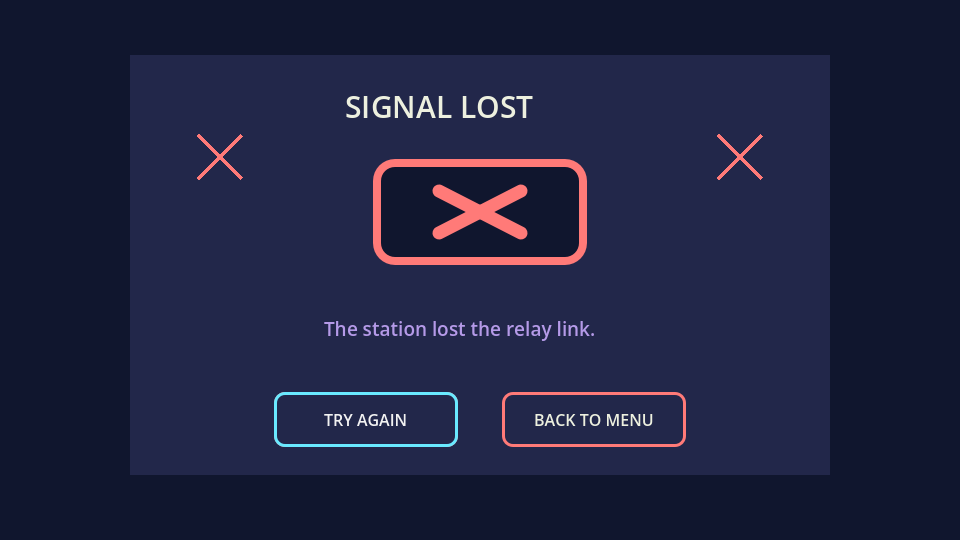
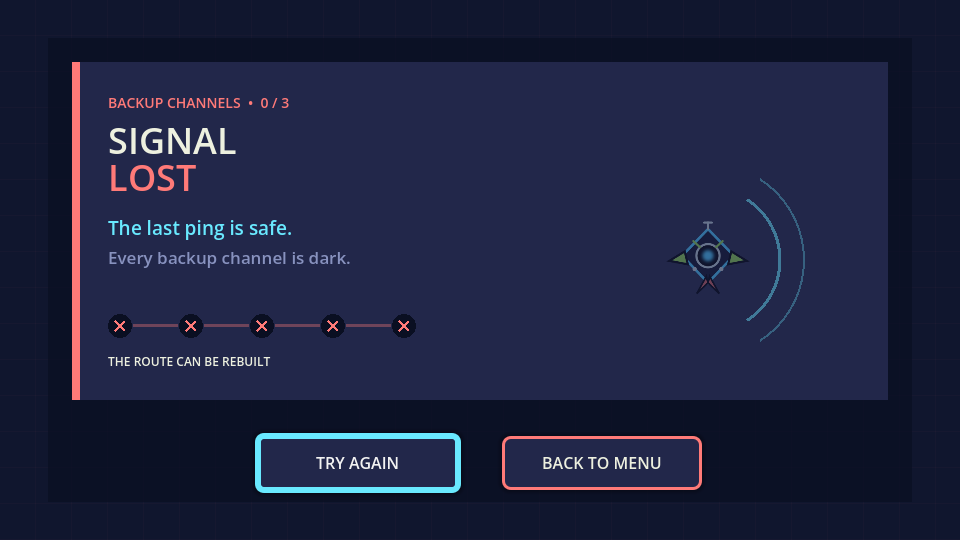
docs(readme): document five-stage practice build

diff --git a/README.md b/README.md
@@ -1,94 +1,116 @@
 # Rapid Relay: Signal Shift
 
-An AI-assisted Godot reaction-game practice project where a player keeps a relay station online through short keyboard and mouse challenges.
+An original Godot reflex-game collection about rebuilding a courier drone's route through an ion storm.
 
-![Rapid Relay main menu](screenshots/main-menu.png)
+![Wave Tuner gameplay with the five-stage relay HUD](screenshots/relay-round.png)
 
-## Current status
+**[Existing browser demo — five-game update pending](https://aaravkatiyar55-gif.github.io/rapid-relay-signal-shift/)** · [View the source](https://github.com/aaravkatiyar55-gif/rapid-relay-signal-shift)
 
-The local game, automated logic checks, local runtime screenshots, public source repository, and public browser demo exist. This project has no tracker-time evidence or Stardance submission claim. Visible-window manual testing is still incomplete.
+## What it is
 
-## How it plays
+You are the night-shift operator at Relay Station Five. An ion storm has scattered the navigation signal of KITE, a small courier drone trying to reach Luma Bay. Read one instruction, react quickly, and repair five links before all three backup channels go dark.
 
-Start the relay, read the active instruction, and preserve three signal bars through four rounds. A failed challenge removes one bar. Losing all bars opens **Signal Lost**; surviving all four rounds opens **Transmission Complete**.
+This is a standalone practice project with its own setting, character, interface, assets, win scene, and failure scene. It does not use Nintendo characters, art, music, names, or UI.
 
-### Controls
+## Quick start
 
-- **Tab** and **Enter**: move to and activate focused menu/end-scene buttons.
-- **Space**: use only after `GO` in Pulse Press.
-- **Mouse click** or **tap**: catch the moving orb in Orb Catch.
-- **Esc**: return to the main menu during a run or ending screen.
-
-## Mini-games
-
-### Pulse Press
-
-Wait for the central relay lamp to say `GO`, then press Space inside the active window. Pressing early or missing the window fails the round.
-
-### Orb Catch
-
-Click or tap the drifting signal orb before it crosses the exit line. A click outside the orb or a timeout fails the round.
+1. Install Godot 4.7 or a compatible Godot 4 release.
+2. Open `project.godot` and press **F5**.
+3. Use the active control shown above each challenge.
 
 ## Features
 
-- 960×540 Godot 4 Compatibility-renderer project.
-- Four-round alternating challenge flow: Press, Catch, Press, Catch.
-- Textual `SIGNAL BARS x / 3` HUD plus visible bars.
-- Separate original Win and Death scenes with replay and menu routes.
-- Simple local SVG assets for the relay icon, signal bars, success stamp, and failure stamp.
+- Five different input-driven minigames in a fixed story sequence.
+- Keyboard, mouse, and touch controls, with keyboard alternatives for pointer challenges.
+- Three visible backup channels with text, shape, and colour feedback.
+- Five-node route HUD that records successful and recovered stages.
+- Original KITE/Luma Bay story, animated menu, win scene, and failure scene.
+- 960×540 Godot 4 Web-compatible build with project-specific local SVG art.
 
-## Run locally
+## The five relay repairs
 
-1. Install Godot 4.7 or a compatible Godot 4 release.
-2. Import or open `project.godot` from this folder.
-3. Press **F6** to run the current scene, or **F5** to run the project.
-4. Use keyboard and mouse controls listed above.
+### 1. Pulse Press — Wake
 
-## Test locally
+Wait for the lamp to say `GO`, then press **Space** inside the 0.85-second response window. Pressing early or late uses a backup.
 
-The recorded results are in [docs/TESTING.md](docs/TESTING.md). The checks can be run from a terminal with a Godot console executable:
+### 2. Orb Catch — Catch
+
+Catch the moving orb before it escapes. Click or tap it, or move the keyboard reticle with the **Arrow keys** and press **Enter**.
+
+### 3. Wave Tuner — Tune
+
+Use **Left** and **Right** to move the needle. Keep it inside the stable band for 0.55 seconds before the 4.5-second timer expires.
+
+### 4. Relay Route — Route
+
+Enter the four visible **Arrow keys** in order before the route timer runs out. A wrong arrow breaks the stage.
+
+### 5. Core Dock — Dock
+
+Drag the diamond navigation core into the matching socket. A keyboard player can choose a socket with **Left/Right** and dock with **Enter**.
+
+## Controls
+
+- **Tab / Enter:** navigate and activate menu or ending buttons.
+- **Space:** Pulse Press.
+- **Arrow keys:** Orb reticle, Wave Tuner, Relay Route, and Core Dock selection.
+- **Mouse / touch:** Orb Catch and Core Dock.
+- **Esc:** return to the main menu during a run or ending screen.
+
+## How the game works
+
+`Game.tscn` owns one ordered five-stage plan. It instantiates the correct minigame scene, listens for one `finished(success)` result, updates the route HUD, and moves to the next stage. A small shared minigame base blocks duplicate results and gives each result a short readable pause.
+
+A failure consumes one backup but automatically repairs that stage, so the story can continue. Losing the third backup opens **Signal Lost**. Reaching the end with at least one backup opens **Transmission Complete**.
+
+## Run and test locally
+
+Open a PowerShell terminal in the project folder and replace the executable name if Godot is installed somewhere else:
 
 ```powershell
 Godot_v4.7.1-stable_win64_console.exe --headless --path . --script res://tests/press_logic_test.gd
 Godot_v4.7.1-stable_win64_console.exe --headless --path . --script res://tests/catch_logic_test.gd
+Godot_v4.7.1-stable_win64_console.exe --headless --path . --script res://tests/wave_logic_test.gd
+Godot_v4.7.1-stable_win64_console.exe --headless --path . --script res://tests/route_logic_test.gd
+Godot_v4.7.1-stable_win64_console.exe --headless --path . --script res://tests/dock_logic_test.gd
 Godot_v4.7.1-stable_win64_console.exe --headless --path . --script res://tests/flow_test.gd
 Godot_v4.7.1-stable_win64_console.exe --headless --path . --script res://tests/navigation_test.gd
 ```
 
-## Assets and technology
-
-- Godot 4.7
-- GDScript
-- Local SVG files in `assets/`
-- No external asset pack or external font
-
-The SVG assets and game source in this practice project were produced with AI assistance and are stored locally in this repository folder.
+The 2026-08-24 run completed **80 assertions across seven suites with zero failures**. Detailed observed results and test boundaries are in [docs/TESTING.md](docs/TESTING.md).
 
 ## Screenshots
 
-All images below were captured from the local non-headless Godot runtime on 2026-08-18.
+All images below were captured from the actual local Godot 4.7.1 runtime on 2026-08-24.
 
-![Main menu](screenshots/main-menu.png)
-![Pulse Press HUD](screenshots/relay-round.png)
-![Transmission Complete](screenshots/transmission-complete.png)
-![Signal Lost](screenshots/signal-lost.png)
+![Rapid Relay main menu](screenshots/main-menu.png)
 
-## Public links
+![Core Dock gameplay](screenshots/core-dock.png)
 
-- Source: [GitHub repository](https://github.com/aaravkatiyar55-gif/rapid-relay-signal-shift)
-- Playable demo: [GitHub Pages](https://aaravkatiyar55-gif.github.io/rapid-relay-signal-shift/)
+![Transmission Complete ending](screenshots/transmission-complete.png)
 
-The GitHub Pages build was checked in a fresh browser on 2026-08-18: the main menu loaded, Start Relay entered the first round, and the inactivity route reached Signal Lost without browser-console errors.
+![Signal Lost ending](screenshots/signal-lost.png)
+
+## Assets and credits
+
+- Built with Godot 4.7 and GDScript.
+- Uses Godot's built-in fallback font.
+- Project-specific SVGs in `assets/`: relay icon, signal bars, result stamps, KITE drone, and Luma Bay.
+- No downloaded sprite pack, external font, music, or Nintendo asset is included.
+
+The source, visual assets, story copy, tests, and documentation in this practice build were produced with substantial OpenAI Codex assistance. They are stored in the repository so their origin is not hidden.
 
 ## Known limitations
 
-- Only two minigame types are included.
-- There is no sound effects, high-score system, or mobile-specific layout pass yet.
-- Visible-window manual testing is still required in addition to the recorded headless tests.
-- The public demo has a desktop browser check; a separate mobile browser pass is still needed.
+- No sound effects or high-score system.
+- The gameplay HUD is drawn on the Godot canvas and does not currently expose a screen-reader text layer.
+- The fixed 960×540 game canvas scales in the browser instead of rearranging into a phone-specific layout.
+- Automated logic tests and runtime screenshots are not a substitute for a person completing every route manually.
+- Browser automation verified loading, clean console output, menu rendering, and keyboard start; background canvas timing made a complete automated browser playthrough unreliable.
+- This substantial AI-assisted build must not be represented as satisfying a none-to-minimal-AI mission without explicit organizer confirmation.
 
 ## AI disclosure
 
-OpenAI Codex was used for project setup, implementation support, debugging, testing support, and documentation. This repository and its project evidence describe the actual verified behavior; it is an AI-assisted practice prototype.
+OpenAI Codex was used for project setup, game design, GDScript implementation, visual assets, debugging, automated tests, screenshots, documentation, Web-export support, and repository/deployment work.
 
-It must not be represented as meeting Stardance’s “none to minimal AI usage” requirement without independent confirmation from the mission organizers.
+This is an AI-assisted practice project. No claim of human-only authorship, five human coding hours, or mission eligibility is made here.

diff --git a/docs/TESTING.md b/docs/TESTING.md
@@ -1,46 +1,80 @@
 # Testing notes
 
-Date: 2026-08-18
-Environment: Windows, Godot 4.7.1 stable console build, headless local runs.
+Date: 2026-08-24
+Workspace: `rapid-relay-rebuild`
+Environment: Windows, Godot 4.7.1 stable, Compatibility renderer.
+
+## What was checked
+
+Testing is separated into source inspection, automated Godot checks, local runtime rendering, local browser checks, and public verification. A check is not listed as manual owner testing unless a person actually played it.
 
 ## Source inspection
 
-- Checked the exact `rapid-relay-rebuild` workspace: six scenes, seven GDScript files, four local SVG assets, four 960×540 local screenshots, README, test scripts, and a 960×540 Compatibility-renderer Godot project were present.
-- No source reference to the prohibited older project names was found.
+- Confirmed one Godot 4 project with a 960×540 viewport and Web export preset.
+- Confirmed nine runtime scenes: menu, game controller, five minigames, win, and death.
+- Confirmed five distinct minigame scripts with keyboard, mouse, or touch input.
+- Confirmed six project-specific SVG files and no external asset pack or font.
+- Confirmed one ordered five-stage controller plan and a one-result-only shared minigame base.
+- Confirmed README and design notes retain substantial Codex assistance disclosure.
+- Confirmed there is no semantic screen-reader text layer; this remains a documented limitation rather than a tested accessibility claim.
 
-## Automated and local runtime checks
+## Automated Godot results
 
-| Test | Input or action | Observed result | Status |
+All seven suites below were run with the Godot 4.7.1 console executable. Final suite runs exited `0` with no script/runtime error and no failed assertion.
+
+| Suite | Main cases observed | Assertions | Result |
+| --- | --- | ---: | --- |
+| Pulse Press | randomized wait range, early input, correct input, late input, duplicate guard | 5 | Passed |
+| Orb Catch | pointer hit, reticle move, keyboard capture, wrong click, timeout | 5 | Passed |
+| Wave Tuner | both directions, long-frame crossing, stable hold, hold reset, late target, timeout, duplicate guard, reset-timer cancellation | 19 | Passed |
+| Relay Route | full sequence, wrong arrow, timeout, duplicate guard, stopped state, reset | 7 | Passed |
+| Core Dock | correct drag, empty drop retry, wrong socket, keyboard dock, timeout, duplicate guard, reset | 10 | Passed |
+| Five-stage flow | real child result signals, exact order/metadata, full win, three-loss death, final-stage recovery, duplicate controller result | 21 | Passed |
+| Navigation | real Enter/Esc dispatch, result-delay escape, menu focus/start, fresh replay, win/death buttons, back to menu | 13 | Passed |
+| **Total** |  | **80** | **Passed** |
+
+## Local runtime and visual checks
+
+| Check | Action | Observed result | Status |
 | --- | --- | --- | --- |
-| Project startup | Ran the project for five headless frames after changing SVG usage to imported textures | Godot started without console errors or SVG asset-load warnings | Passed |
-| Desktop startup | Ran the project for five non-headless frames | Godot exited 0 using the Compatibility renderer; it selected ANGLE after a GPU-driver warning | Passed |
-| Runtime screenshots | Ran the non-headless screenshot capture script | Saved four readable PNGs for menu, active game HUD, win, and death states | Passed |
-| SVG export-safety check | Loaded the menu, HUD, and both ending scenes through the automated runs | Imported SVG textures loaded without the earlier raw-image export warnings | Passed |
-| Web export preflight | Ran the Web preset through Godot’s headless exporter | Blocked: required Godot 4.7.1 Web export templates are not installed on this machine | Not completed |
-| Pulse Press, early | Sent Space while the test was waiting | The result signal returned failure | Passed |
-| Pulse Press, success | Advanced the test to GO, then sent Space | The result signal returned success | Passed |
-| Pulse Press, late | Advanced beyond the allowed GO window | The result signal returned failure | Passed |
-| Orb Catch, direct hit | Sent a click at the orb position | The result signal returned success | Passed |
-| Orb Catch, wrong click | Sent a click outside the orb | The result signal returned failure | Passed |
-| Orb Catch, timeout | Advanced the orb beyond its time limit | The result signal returned failure | Passed |
-| Four-round route | Simulated four successful minigame result signals in the controller | Alternated Press, Catch, Press, Catch and opened `WinScene` | Passed |
-| Loss route | Simulated three failed minigame result signals in the controller | Signal bars changed from 3 to 0 and opened `DeathScene` | Passed |
-| End-scene focus | Checked the first button after each ending scene loaded | `Play Again` and `Try Again` each had focus | Passed |
-| Menu start route | Loaded MainMenu and invoked its Start Relay action | Game scene opened with round 1 and three signal bars | Passed |
-| Replay and menu routes | Loaded ending scenes and invoked Try Again, Play Again, and Back to Menu actions | Each route opened the expected fresh scene | Passed |
+| Non-headless renderer | Ran screenshot capture with Godot 4.7.1 | Compatibility mode started through ANGLE after a known Intel OpenGL driver warning | Passed |
+| Runtime screenshots | Captured menu, all five minigames, win, and death | Nine 960×540 PNG files saved from the actual runtime | Passed |
+| Screenshot failure guard | Locked one output file during a negative capture run, then ran normally | Failed save exited `1`; final unlocked capture saved all nine and exited `0` | Passed |
+| Layout review | Inspected all nine generated images | Instructions, route nodes, backup text, buttons, gameplay objects, and ending copy were visible without overlap | Passed |
+| Colour-independent state | Inspected HUD and result visuals | Text plus rings, crosses, filled nodes, backup count, and status copy accompany colours | Passed |
+| Web icon branding | Exported with the project relay icon | Browser icon files show the relay antenna instead of default Godot artwork | Passed |
+| Export packaging | Exported the Web release preset | Export succeeded; runtime-only package was about 175 KB plus Godot Web runtime | Passed |
 
-## Visible manual testing
+The display server warned that the Intel HD Graphics 4000 driver has low-quality OpenGL 3.3 support and automatically selected ANGLE. The run completed successfully, so this is recorded as an environment warning rather than a game failure.
 
-Not completed. The local non-headless screenshot capture ran successfully, but Computer Use could not consistently capture the Godot application window. Tab/Enter, mouse playthrough, and visible 960×540 layout therefore remain unverified by a person playing the window.
+## Local Chrome Web check
 
-## Deployed browser testing
+The exported build was served from `127.0.0.1` and opened in the connected Chrome browser.
 
-Not completed. No public Web export or demo exists because the required Godot 4.7.1 Web export templates are not installed.
+| Check | Observed result | Status |
+| --- | --- | --- |
+| Page load | Title was `Rapid Relay: Signal Shift`; the Godot canvas rendered the current menu | Passed |
+| Browser console | No warning or error was returned after load and interaction checks | Passed |
+| Menu keyboard start | Enter activated the focused Start button and opened Pulse Press | Passed |
+| Web font check | A Unicode arrow first rendered as a missing-glyph square | Failed, then fixed |
+| Glyph regression | Replaced the arrow with ASCII `>`; re-exported and reloaded | Passed |
+| Failure path input | Late/incorrect inputs visibly removed backup channels and advanced the route | Passed |
+| Complete browser win route | Background canvas timing was throttled during automated waits, so reaction timing was not reliable | Not claimed |
 
-## Known limitations
+## Public verification
 
-- These are headless logic checks, not a replacement for a person playing the visible game window.
-- Manual keyboard Tab/Enter interaction, mouse playthrough, and 960×540 visual layout still need a visible-window check. Computer Use could not capture the Godot window on this machine during this session.
-- An attempted headless synthetic Tab/Enter test did not activate focused Godot buttons, so it is not counted as keyboard-interaction evidence.
-- The local Web export needs Godot 4.7.1 Web templates before a playable web build can be generated.
-- No public repository, public demo, tracker time, or Stardance submission evidence exists yet.
+The repository and GitHub Pages URLs already exist. The new five-minigame build is not counted as publicly verified until its commit is pushed, Pages is updated, and the fresh live URL is checked again.
+
+## Still requires a human play pass
+
+- Complete one full win route in a visible browser or Godot window.
+- Complete one deliberate three-loss route.
+- Confirm Core Dock drag feel with a real pointer and touch device if available.
+- Confirm the scaled 960×540 canvas is comfortable on a real phone.
+
+## Evidence boundaries
+
+- The automated suites verify game logic, state transitions, and reset behavior.
+- Runtime screenshots verify rendered layout at selected moments, not a complete human playthrough.
+- Local Chrome checks verify the exported canvas loads and accepts input, not that every timing challenge was manually completed.
+- No coding hours, tracker time, public deployment update, Stardance approval, or reward is inferred from these tests.

diff --git a/docs/DESIGN_NOTES.md b/docs/DESIGN_NOTES.md
@@ -1,0 +1,41 @@
+# Design notes
+
+## The idea
+
+Rapid Relay: Signal Shift takes place during the night shift at Relay Station Five. An ion storm has scattered the navigation signal of KITE, a small courier drone trying to reach Luma Bay. The player repairs five links in the route before all backup channels go dark.
+
+This is an original setting. It does not use Nintendo characters, art, music, names, or UI.
+
+## Game loop
+
+1. Read the stage name and one short instruction.
+2. Complete a quick keyboard, mouse, or touch challenge.
+3. A success stabilizes the link without using a backup.
+4. A failure uses one of three backup signal bars, then the route continues.
+5. Losing the third backup opens Signal Lost.
+6. Surviving all five stages opens Transmission Complete.
+
+The backup-channel idea explains why a failed stage can be recovered. A player does not need a perfect run, but three failures end the transmission.
+
+## Five relay repairs
+
+- **Wake — Pulse Press:** press Space only after the lamp changes to GO.
+- **Catch — Orb Catch:** click, tap, or keyboard-capture KITE's drifting carrier signal.
+- **Tune — Wave Tuner:** use Left and Right to hold a tuning needle inside the stable band.
+- **Route — Relay Route:** enter the visible four-arrow cable sequence before time runs out.
+- **Dock — Core Dock:** drag the marked navigation core into the matching socket, or choose a socket with the keyboard.
+
+## Visual direction
+
+The game uses a small six-colour station palette: dark navy, indigo panel, warm off-white, cyan, lime, and coral. KITE is a diamond-shaped drone with a cyan lens and lime fins. The interface uses grid lines, circuit paths, route nodes, status words, and simple motion instead of copied arcade art.
+
+Success and failure never rely on colour alone. They also use words, icons, route changes, and shape changes. There are no full-screen flashes.
+
+## Endings
+
+- **Transmission Complete:** all five route nodes light up and KITE reaches Luma Bay at dawn.
+- **Signal Lost:** the route is broken, but KITE's last safe ping is still visible and the player can rebuild the route.
+
+## Assistance note
+
+These design notes, the code, and the visual assets in this practice build were produced with substantial Codex assistance. That fact must stay visible in the README and any project evidence.
